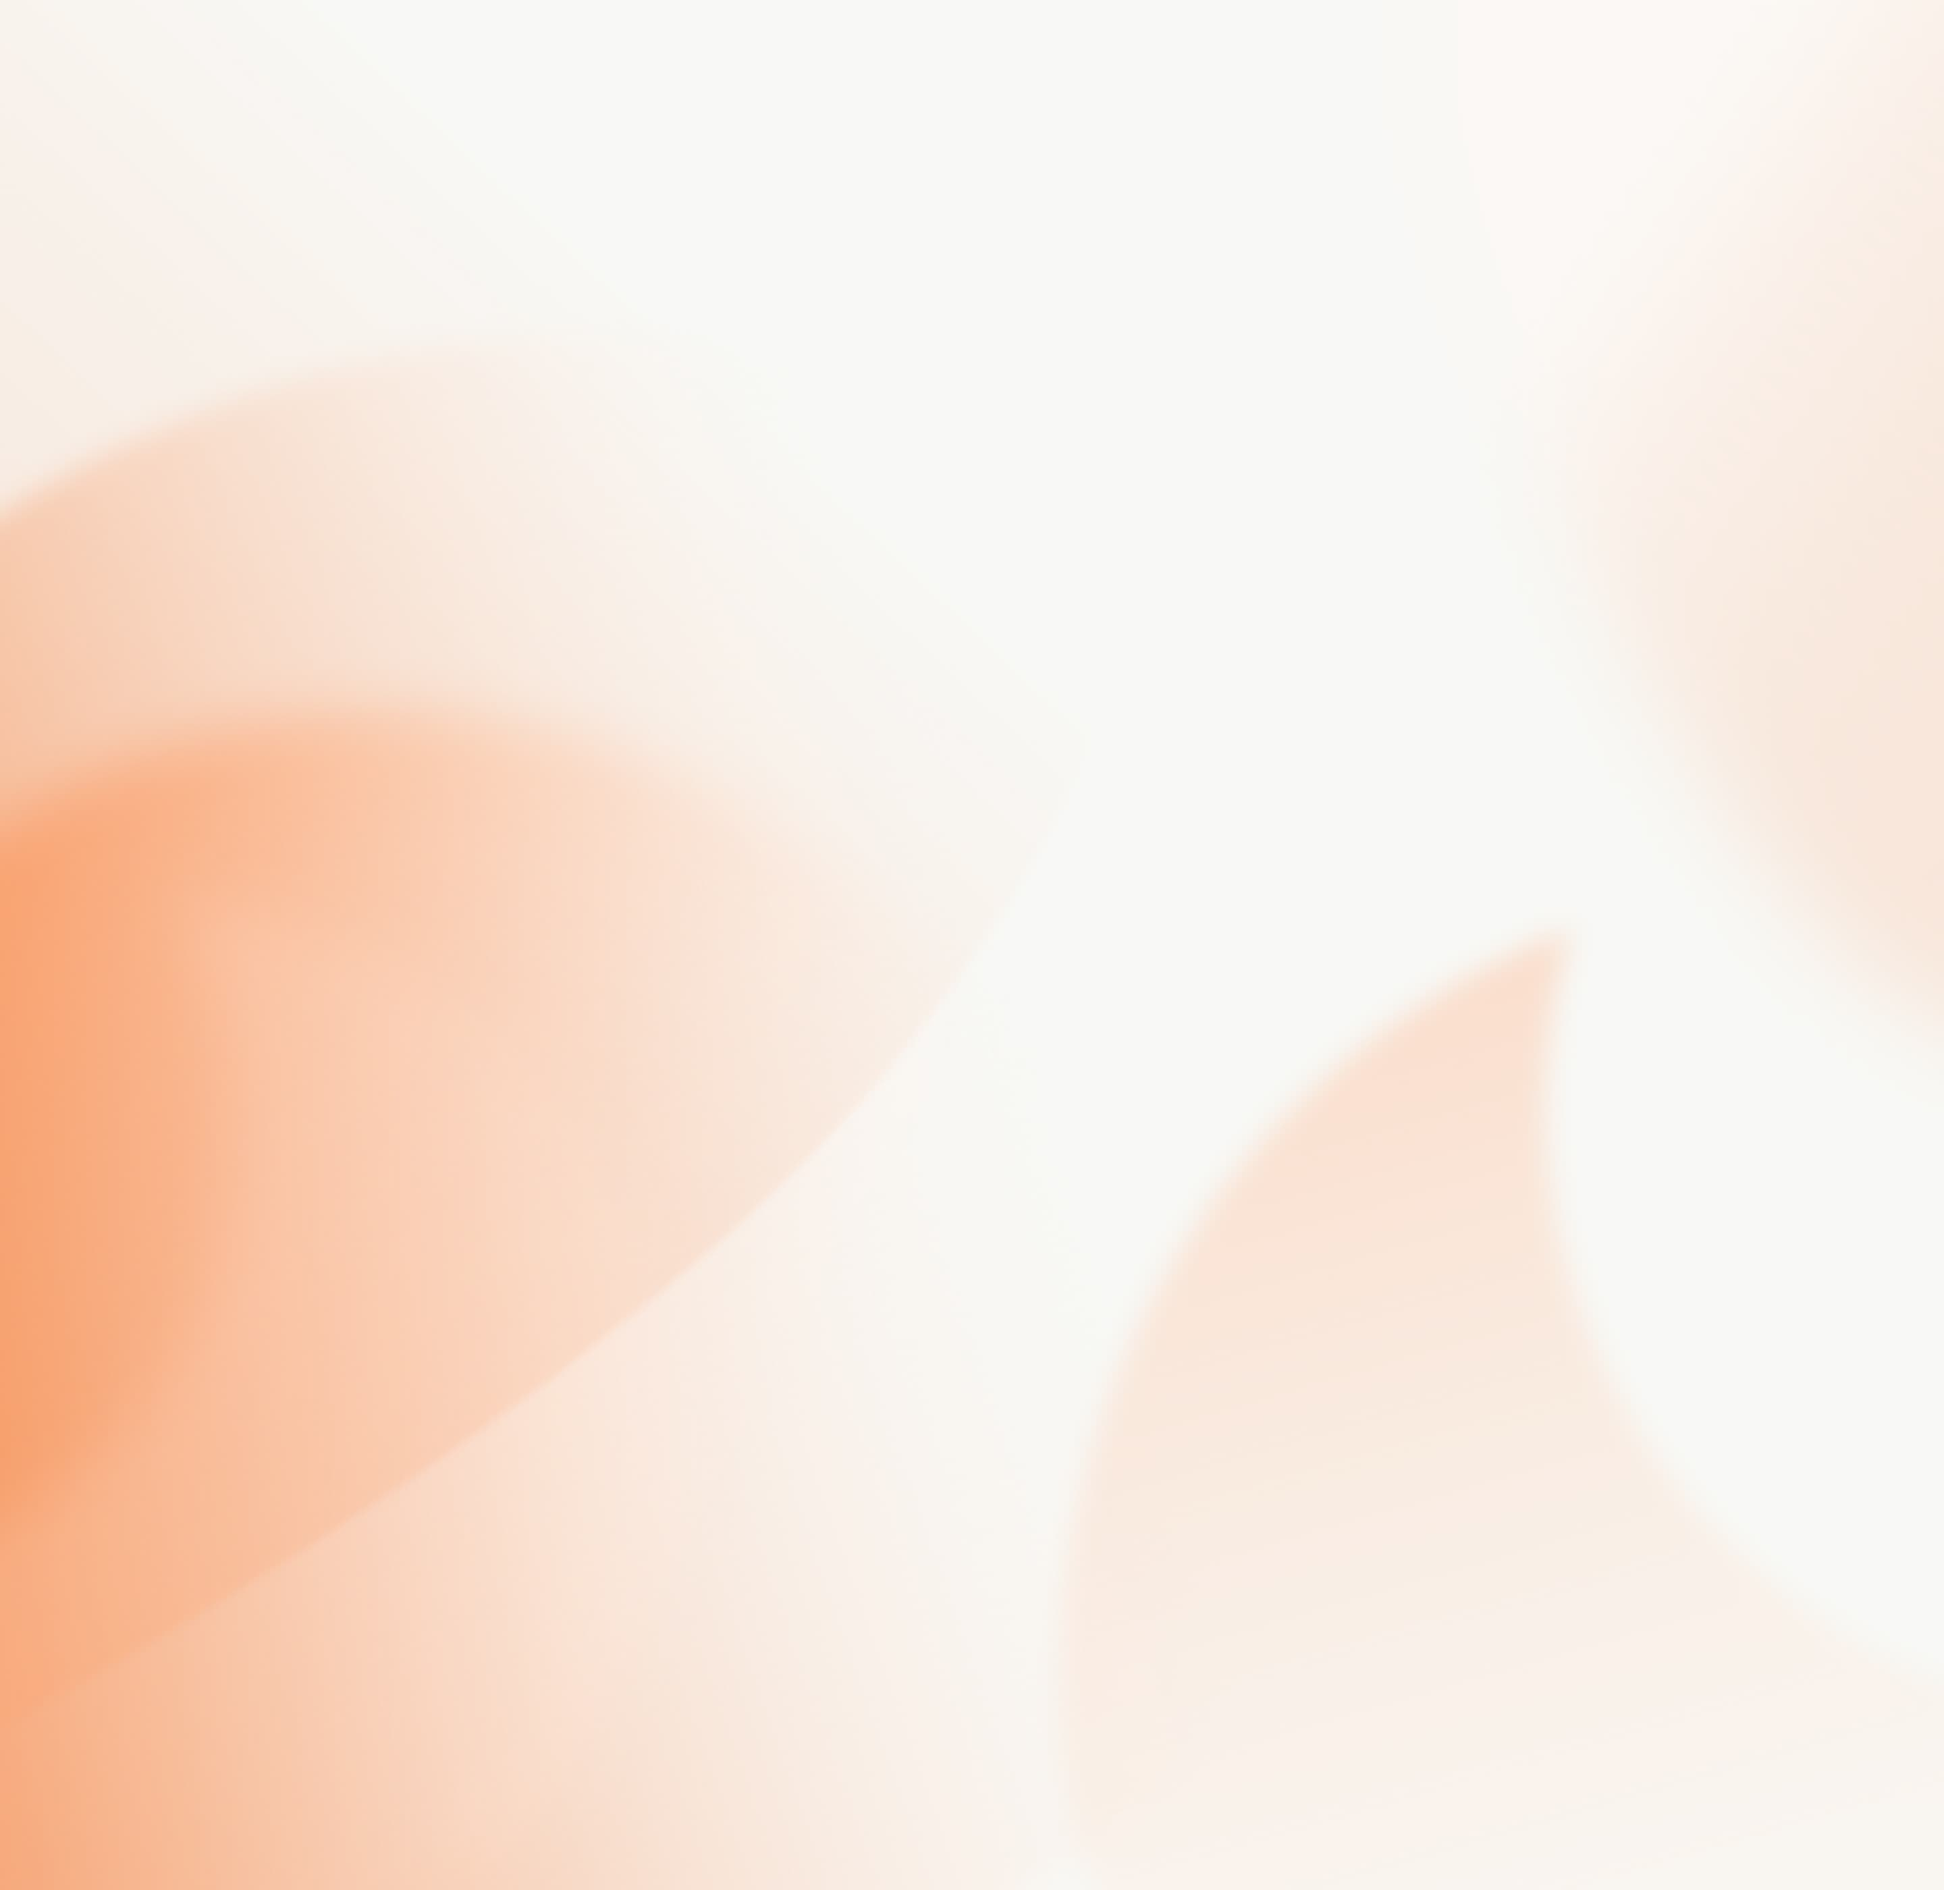
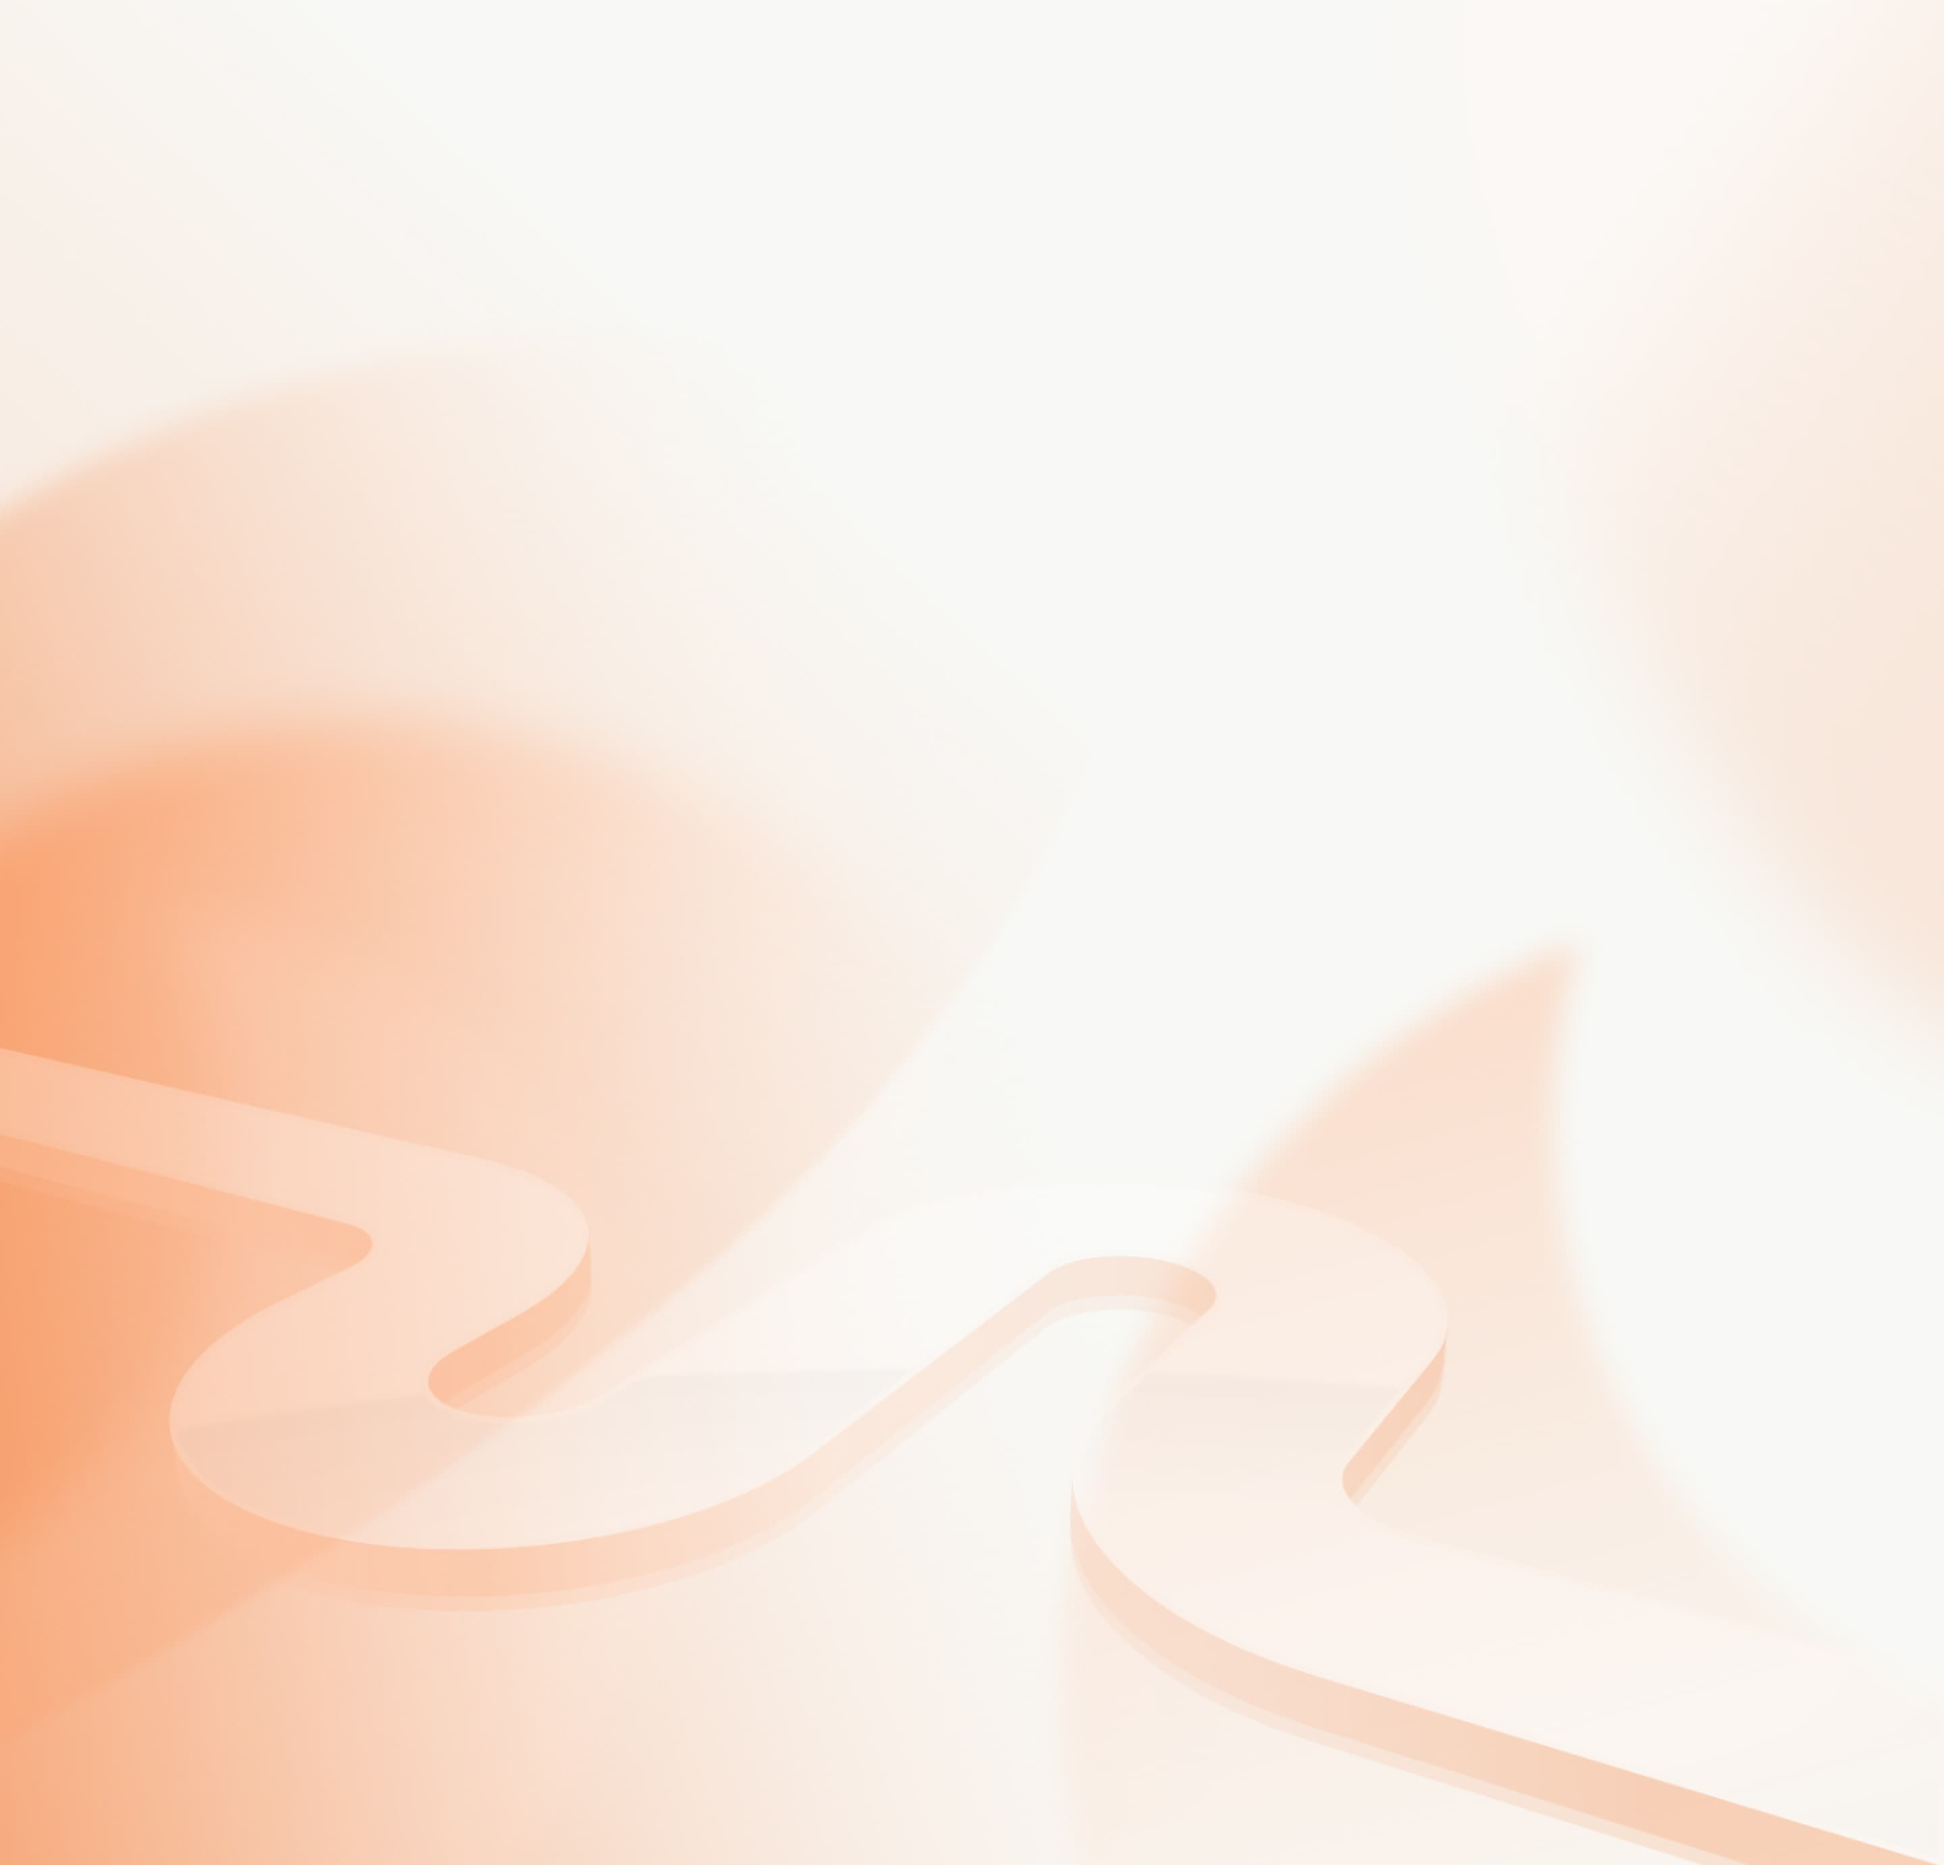
fix photo

diff --git a/src/components/AboutMe/AboutMe.js b/src/components/AboutMe/AboutMe.js
@@ -2,7 +2,6 @@ import React from 'react';
 import { GatsbyImage } from 'gatsby-plugin-image';
 import { useTranslation } from 'gatsby-plugin-react-i18next';
 import { graphql, useStaticQuery } from 'gatsby';
-import { useMedia } from 'react-use';
 import Section from '../reusableComponents/Section';
 import Heading from '../reusableComponents/Heading';
 import { sectionContainer, aboutMeContainer } from './AboutMe.module.css';
@@ -13,18 +12,8 @@ import AboutMePrimaryText from './AboutMePrimaryText';
 const AboutMe = () => {
   const { t } = useTranslation();
 
-  const isDesktop = useMedia('(min-width:1440px)');
-
   const foto = useStaticQuery(graphql`
     query {
-      avatarLaptop: file(name: { eq: "aboutMe" }) {
-        id
-        publicURL
-        childImageSharp {
-          id
-          gatsbyImageData(placeholder: BLURRED, formats: [AUTO, WEBP, AVIF])
-        }
-      }
       avatarDesktop: file(name: { eq: "aboutFoto" }) {
         id
         publicURL
@@ -37,7 +26,7 @@ const AboutMe = () => {
   `);
 
   const data = t('aboutMe', { returnObjects: true });
-  const smartScreenAvatar = foto.avatarLaptop.childImageSharp.gatsbyImageData;
+
   const DesktopScreenAvatar =
     foto.avatarDesktop.childImageSharp.gatsbyImageData;
 
@@ -59,52 +48,11 @@ const AboutMe = () => {
             </span>
           </div>
 
-          {/* {isDesktop ? ( */}
           <GatsbyImage
             image={DesktopScreenAvatar}
             alt="author"
             className="w-[134px] h-[160px] laptop:w-[270px]  laptop:h-[342px] laptop:mr-5    desktop:w-[524px] desktop:h-full rounded-[24px] "
           />
-          {/* ) : ( */}
-          {/* <GatsbyImage
-              image={DesktopScreenAvatar}
-              alt="author"
-              className=" w-[134px] h-[160px] laptop:w-[270px]  laptop:h-[342px] laptop:mr-5  rounded-2xl "
-            /> */}
-          {/* )} */}
-
-          {/* {isDesktop ? (
-            <div>
-              <GatsbyImage
-                image={DesktopScreenAvatar}
-                alt="author"
-                className="  desktop:w-[456px] desktop:h-[480px]"
-              />
-            </div>
-          ) : (
-            <>
-              <div className="w-[134px] text-left laptop:hidden mr-3">
-                <Heading
-                  tag={'h2'}
-                  className="title-primary text-left mb-4 laptop:mb-13 laptop:font-semibold laptop:text-34"
-                  text={data.title}
-                />
-                <span className="text-black text-left text-sm">
-                  {data.oneParagraphFirst}
-                  <span className="text-caveat leading-[0.9]">
-                    {data.oneParagraphSpan}
-                  </span>
-                </span>
-              </div>
-              <div>
-                <GatsbyImage
-                  image={smartScreenAvatar}
-                  alt="author"
-                  className=" w-[134px] h-[160px] laptop:w-[270px]  laptop:h-[342px] laptop:mr-5  rounded-2xl "
-                />
-              </div>
-            </>
-          )} */}
         </div>
         <AboutMePrimaryText data={data} />
       </div>

diff --git a/src/components/Facts/Facts.js b/src/components/Facts/Facts.js
@@ -61,6 +61,22 @@ const Facts = () => {
           gatsbyImageData(placeholder: BLURRED, formats: [AUTO, WEBP, AVIF])
         }
       }
+      back: file(name: { eq: "features" }) {
+        id
+        publicURL
+        childImageSharp {
+          id
+          gatsbyImageData(placeholder: BLURRED, formats: [AUTO, WEBP, AVIF])
+        }
+      }
+      backMob: file(name: { eq: "features-mini" }) {
+        id
+        publicURL
+        childImageSharp {
+          id
+          gatsbyImageData(placeholder: BLURRED, formats: [AUTO, WEBP, AVIF])
+        }
+      }
     }
   `);
 
@@ -70,17 +86,26 @@ const Facts = () => {
 
   const fotoMob = foto.mob.childImageSharp.gatsbyImageData;
   const fotoDesk = foto.desk.childImageSharp.gatsbyImageData;
+  const back = foto.back.childImageSharp.gatsbyImageData;
+  const backMob = foto.backMob.childImageSharp.gatsbyImageData;
 
   return (
     <Section className={section} id="facts">
       <Heading tag="h2" className={title} text={data.title} />
-      <StaticImage
-        layout="fullWidth"
-        src="../../images/background/features.jpg"
-        alt=""
-        style={{ position: 'absolute' }}
-        className="w-full h-full -z-10 top-0"
-      />
+      {isWide ? (
+        <GatsbyImage
+          image={back}
+          className="w-full h-full -z-10 top-0 absolute left-0"
+          alt="background"
+        />
+      ) : (
+        <GatsbyImage
+          image={backMob}
+          className="w-full h-full -z-10 top-0 absolute left-0"
+          alt="background"
+        />
+      )}
+
       <div className={contentContainer}>
         <div>
           <Heading tag="h2" className={titleFacts} text={data.title} />
